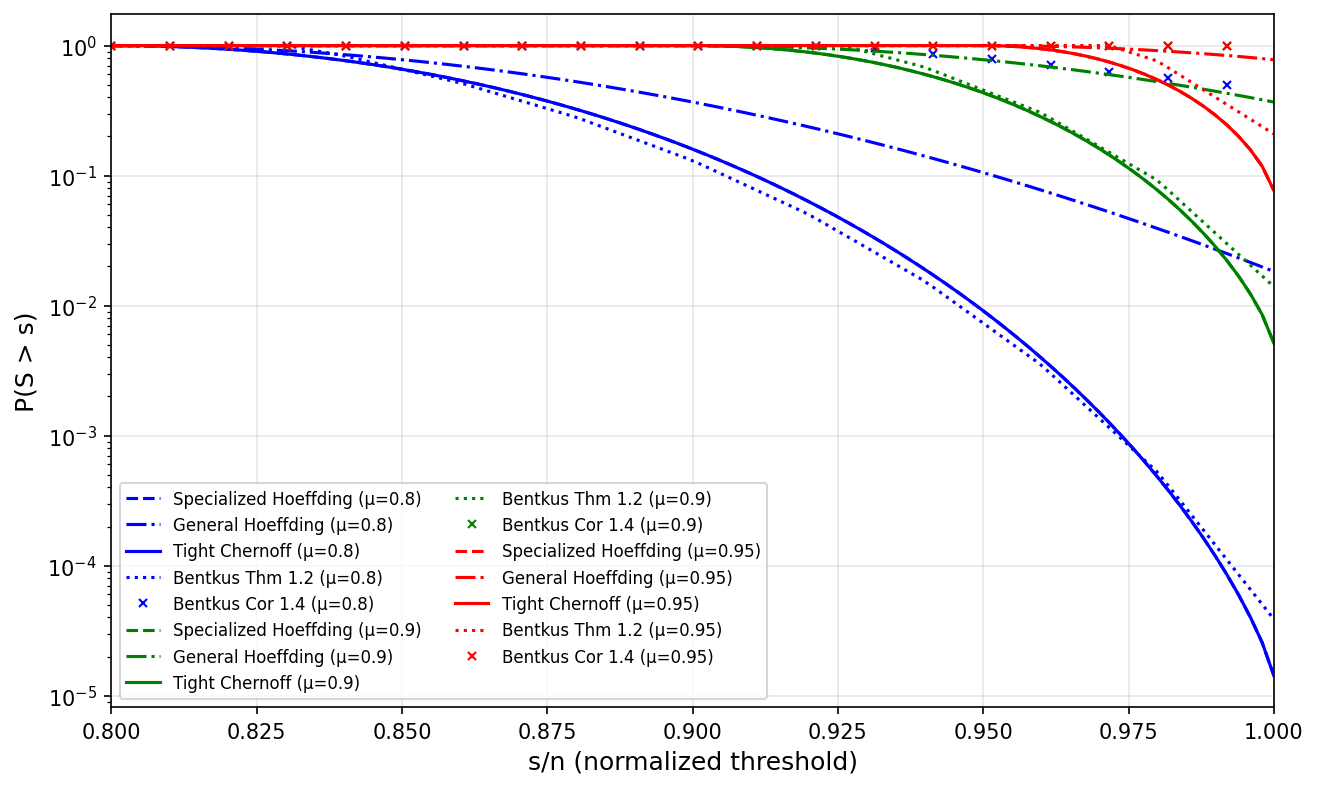
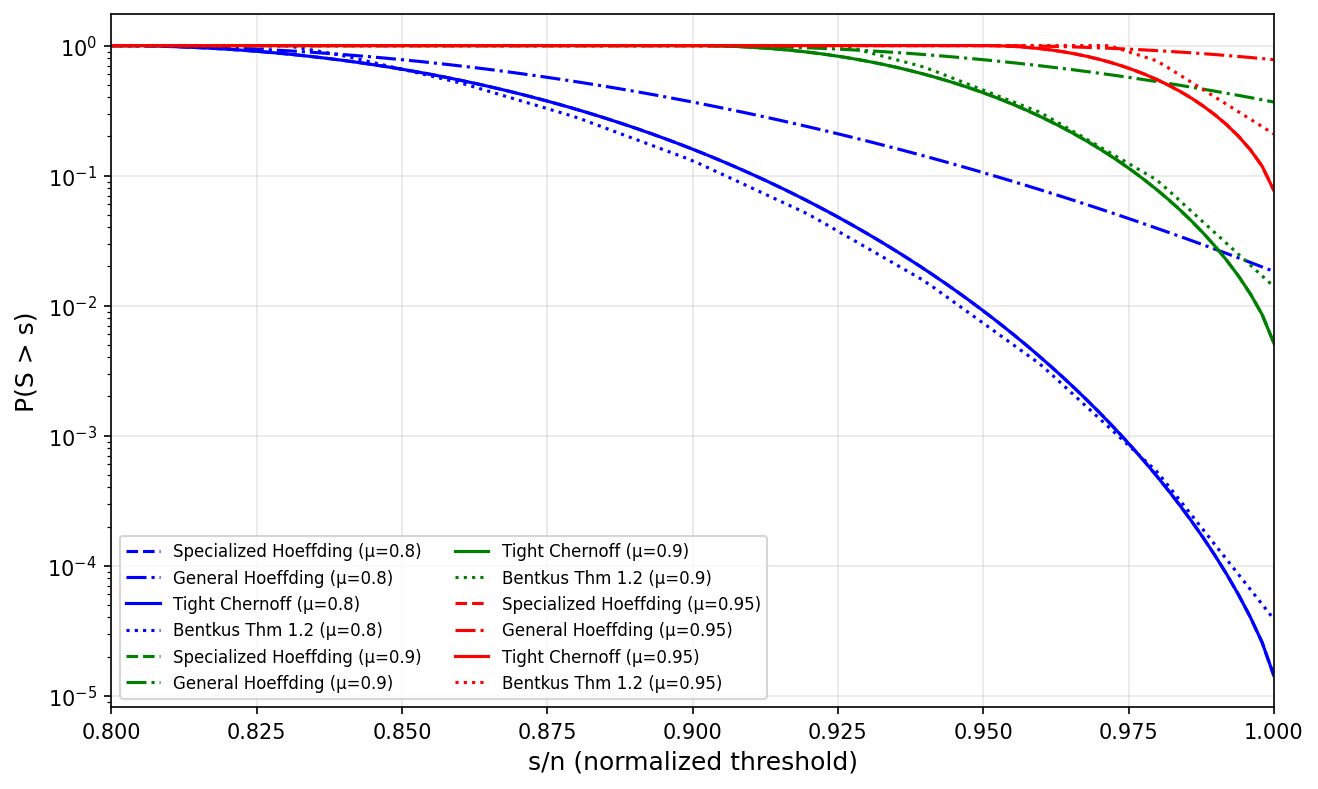
Fix typos, citation error, remove RMS terminology, and update homogeneous plots
- Fix typos: "generalied" → "generalized", "is lies" → "lies", "compatible a case" → "compatible with a case", "$a_i<\leq0$" → "$a_i\leq0$"
- Fix citation error: from2024refinement → from2023improved
- Remove "RMS" terminology from manuscript and clarify by referencing BMD/CW settings
- Remove Bentkus Cor 1.4 from homogeneous case comparisons in both tex and code
- Regenerate homogeneous comparison plots (50, 100, 200) without Bentkus Cor 1.4
- Add label to Related Work section for cross-references

Changed region(s): [[0.0933, 0.6084, 0.591, 0.8821]]

diff --git a/manuscript/main.tex b/manuscript/main.tex
@@ -69,21 +69,22 @@ Hoeffding's seminal work also included a less well-known bound, which is applica
 \end{equation}
 We refer to Equation~\ref{eq:hoeffspecial} as the ``specialized Hoeffding inequality.'' Equation~\ref{eq:hoeffspecial} is tighter than Equation~\ref{eq:hoeffgeneral} in situations where both are applicable.
 
-In this article, we propose a computable bound for the sum of independent random variables for a setting in which the expected value of the sum is known and each random variable is lies in a known fixed interval of arbitrary size.  The size of these intervals is permitted to differ among variables, which makes the direct application of the specialized Hoeffding inequality impossible.  Bounds for this setting are useful for hypothesis testing regarding the sum's expected value based on an observed realization (or, equivalently, for computing confidence intervals on the sum's expected value).  Our key insight is that a worst-case Chernoff--Cram\'er bound related to our setting can be computed exactly by solving a two-dimensional convex optimization problem, yielding a tighter bound than the general Hoeffding inequality.  The result reduces to Equation~\ref{eq:hoeffspecial} in the special case that $b_i=1$ for each $i \in \{1,\ldots,n\}$.  We use simulations to demonstrate that the new bound can be much tighter than the general Hoeffding inequality in situations where both are applicable and the specialized Hoeffding inequality is not.
+In this article, we propose a computable bound for the sum of independent random variables for a setting in which the expected value of the sum is known and each random variable lies in a known fixed interval of arbitrary size.  The size of these intervals is permitted to differ among variables, which makes the direct application of the specialized Hoeffding inequality impossible.  Bounds for this setting are useful for hypothesis testing regarding the sum's expected value based on an observed realization (or, equivalently, for computing confidence intervals on the sum's expected value).  Our key insight is that a worst-case Chernoff--Cram\'er bound related to our setting can be computed exactly by solving a two-dimensional convex optimization problem, yielding a tighter bound than the general Hoeffding inequality.  The result reduces to Equation~\ref{eq:hoeffspecial} in the special case that $b_i=1$ for each $i \in \{1,\ldots,n\}$.  We use simulations to demonstrate that the new bound can be much tighter than the general Hoeffding inequality in situations where both are applicable and the specialized Hoeffding inequality is not.
 
-Note that the generalied Hoeffding bound, the specialized Hoeffding bound, and the bounds we develop here for our setting can all be applied to translated intervals of the form $[a_i, b_i]$ without difficulty: we can always translate each variable by defining $Y_i = X_i - a_i$, which lies in $[0, b_i - a_i]$, and the sum $\sum_i Y_i = \sum_i X_i - \sum_i a_i$ differs from the original sum by a known constant.  The tail bound for $S = \sum_i X_i$ then follows directly from the bound for $\sum_i Y_i$.  This reduction is possible because we are interested in tail bounds of the form $\mathbb{P}(S \geq s)$; the translation preserves the structure of the problem.
+Note that the generalized Hoeffding bound, the specialized Hoeffding bound, and the bounds we develop here for our setting can all be applied to translated intervals of the form $[a_i, b_i]$ without difficulty: we can always translate each variable by defining $Y_i = X_i - a_i$, which lies in $[0, b_i - a_i]$, and the sum $\sum_i Y_i = \sum_i X_i - \sum_i a_i$ differs from the original sum by a known constant.  The tail bound for $S = \sum_i X_i$ then follows directly from the bound for $\sum_i Y_i$.  This reduction is possible because we are interested in tail bounds of the form $\mathbb{P}(S \geq s)$; the translation preserves the structure of the problem.
 
 \section{Related Work}
+\label{sec:related}
 
 We here discuss two related lines of work.
 
-One related line of work considers the case where it is known that $a_i \leq X_i - \mathbb{E}[X_i] \leq b_i$ for every $i$, with both $a_i$ and $b_i$ known per variable.  We refer to this as the ``bounded mean deviation'' (BMD) setting.  Note that although in our setting we may take $a_i=0$ without loss of generality, in the BMD setting the values $a_i$ cannot be simply shifted away.  Instead, the magnitude of $a_i<\leq0$ and $b_i>\geq0$ provide crucial insight into skew for the BMD setting.
+One related line of work considers the case where it is known that $a_i \leq X_i - \mathbb{E}[X_i] \leq b_i$ for every $i$, with both $a_i$ and $b_i$ known per variable.  We refer to this as the ``bounded mean deviation'' (BMD) setting.  Note that although in our setting we may take $a_i=0$ without loss of generality, in the BMD setting the values $a_i$ cannot be simply shifted away.  Instead, the magnitude of $a_i\leq0$ and $b_i\geq0$ provide crucial insight into skew for the BMD setting.
 
 Bounds from our setting (in which $a_i \leq X_i \leq b_i$) can be applied to the BMD setting to calculate the probability of a deviation from the mean: apply a method from our setting to $Y_i = X_i - \mathbb{E}[X_i]$ to bound $\mathbb{P}(\sum_{i}^n Y_i > t)$, then translate by $\mu$ to obtain a bound on $\mathbb{P}(\sum_{i}^n X_i > \mu+t)$.  The application of the generalized Hoeffding inequality to this BMD setting has been shown to be unnecessarily loose.  For example, \citet{hertz2020improved} notes that if $a_i\neq -b_i$ then the asymmetry can be used to produce a superior bound.  On the other hand, when $a_i=-b_i$, \citet[Cor 1.4]{bentkus2004hoeffding} provides a different bound that is often superior to the generalized Hoeffding inequality.
 
-A bound derived from a BMD assumption can be applied to our setting, but the bounds are necessarily quite loose.  To see why, consider a simple version of our setting in which $n=100$ and $X_i \in [-1/2,1/2]$ for each $i$.  This implies the BMD assumption that $1 \leq X_i - \mathbb{E}[X_i] \leq 1$.  However, this BMD assumption is much weaker than our original assumption, and it yields accordingly poor bounds.  In particular, the implied BMD assumption is compatible a case where $X_i$ carries the uniform distribution on $\{-1,1\}$, so that, for example, $\log \mathbb{P}(S>20) \approx -4.03985$.  Consequently, any upper bound based solely on this BMD assumption must be at least $-4.04$.  On the other hand Hoeffding's generalized inequality based on the original assumption yields $\mathbb{P}(S>\mu+20) \leq -8$.  Note that this discrepancy between $-4.04$ and $-8$ is only possible because the uniform distribution producing the $-4.04$ value actually \emph{violates} our original assumption.  In general, the large-deviations exponent for bounds derived from the BMD assumption alone will tend to underperform the large-deviations exponent of bounds derived from the original assumption by a factor of two.
+A bound derived from a BMD assumption can be applied to our setting, but the bounds are necessarily quite loose.  To see why, consider a simple version of our setting in which $n=100$ and $X_i \in [-1/2,1/2]$ for each $i$.  This implies the BMD assumption that $1 \leq X_i - \mathbb{E}[X_i] \leq 1$.  However, this BMD assumption is much weaker than our original assumption, and it yields accordingly poor bounds.  In particular, the implied BMD assumption is compatible with a case where $X_i$ carries the uniform distribution on $\{-1,1\}$, so that, for example, $\log \mathbb{P}(S>20) \approx -4.03985$.  Consequently, any upper bound based solely on this BMD assumption must be at least $-4.04$.  On the other hand Hoeffding's generalized inequality based on the original assumption yields $\mathbb{P}(S>\mu+20) \leq -8$.  Note that this discrepancy between $-4.04$ and $-8$ is only possible because the uniform distribution producing the $-4.04$ value actually \emph{violates} our original assumption.  In general, the large-deviations exponent for bounds derived from the BMD assumption alone will tend to underperform the large-deviations exponent of bounds derived from the original assumption by a factor of two.
 
-Another line of work considers the case where each $X_i \in [0,1]$.  We refer to this as the ``constant width'' (CW) setting.  The CW setting is a special case of our setting.  Bounds from the CW setting can be applied to our setting by applying a single shift and rescaling across all variables such that they lie in the unit interval.  However, this yields necessarily loose bounds, as it throws away information about the per-variable bounds.  The original specialized Hoeffding inequality targeted this setting, but bounds for this setting have been improved in the meanwhile, for example by \citet[Thm 1.2]{bentkus2004hoeffding}.  In simulations we compare the performance of our method with this method of Bentkus in the CW case (note that our method reduces to Hoeffding's specialized inequality in the CW case).  There has also been some work investigating how additional assumptions can enable tighter bounds in the CW case.  For example, \citet{from2013refinement} show a refinement if $\mu_i=\mathbb{E}[X_i]$ is known for each $i$, and \citet{from2024refinement} show a refinement if $\beta = \sum_i^n (\mu_i-\mu)^2/n$ is known.
+Another line of work considers the case where each $X_i \in [0,1]$.  We refer to this as the ``constant width'' (CW) setting.  The CW setting is a special case of our setting.  Bounds from the CW setting can be applied to our setting by applying a single shift and rescaling across all variables such that they lie in the unit interval.  However, this yields necessarily loose bounds, as it throws away information about the per-variable bounds.  The original specialized Hoeffding inequality targeted this setting, but bounds for this setting have been improved in the meanwhile, for example by \citet[Thm 1.2]{bentkus2004hoeffding}.  In simulations we compare the performance of our method with this method of Bentkus in the CW case (note that our method reduces to Hoeffding's specialized inequality in the CW case).  There has also been some work investigating how additional assumptions can enable tighter bounds in the CW case.  For example, \citet{from2013refinement} show a refinement if $\mu_i=\mathbb{E}[X_i]$ is known for each $i$, and \citet{from2023improved} show a refinement if $\beta = \sum_i^n (\mu_i-\mu)^2/n$ is known.
 
 \section{Notation and preliminaries}
 
@@ -164,27 +165,27 @@ This theorem suggests two methods for computing $\varphi^*$.  One method involve
 \begin{center}
 \includegraphics[width=5in]{comparisons/dirichlet_100.png}
   \caption{
-  Comparison of bounds for heterogeneous intervals.  We consider three choices of fixed expected value, $\mu \in \{0.8, 0.9, 0.95\}$.  We compare the general Hoeffding inequality \citep[Theorem 2]{hoeffding_probability_1963} (dashed lines), our new Tight Chernoff bounds (solid lines, calculated using Theorem~\ref{thm:lowd}), Bentkus Theorem 1.2 \citep{bentkus2004hoeffding} (dotted lines), and Bentkus Corollary 1.4 (×~markers).  Since Bentkus Theorem 1.2 requires homogeneous intervals, we apply it by rescaling all variables to lie within $[0, \max_i b_i]$.  Bentkus Corollary 1.4 uses RMS scale but requires centering information.  Our Tight Chernoff bound substantially outperforms both the general Hoeffding inequality and the Bentkus bounds in the heterogeneous case.
+  Comparison of bounds for heterogeneous intervals.  We consider three choices of fixed expected value, $\mu \in \{0.8, 0.9, 0.95\}$.  We compare the general Hoeffding inequality \citep[Theorem 2]{hoeffding_probability_1963} (dashed lines), our new Tight Chernoff bounds (solid lines, calculated using Theorem~\ref{thm:lowd}), Bentkus Theorem 1.2 \citep{bentkus2004hoeffding} (dotted lines), and Bentkus Corollary 1.4 (×~markers).  Since Bentkus Theorem 1.2 requires homogeneous intervals (cf.\ the CW setting from Section~\ref{sec:related}), we apply it by rescaling all variables to lie within $[0, \max_i b_i]$.  Bentkus Corollary 1.4 (cf.\ the BMD setting from Section~\ref{sec:related}) provides per-variable scaling but requires centering information; in the heterogeneous case, this assumption is necessarily loose because it does not fully exploit the per-variable upper bounds.  Our Tight Chernoff bound substantially outperforms both the general Hoeffding inequality and the Bentkus bounds in the heterogeneous case.
   }\label{fig:tailboundcomparisons}
 \end{center}
 \end{figure}
 
 We use simulations to assess the degree of improvement over the general Hoeffding inequality.  First, we sample a vector of interval lengths, $\boldsymbol{b} \in \mathbb{R}^{100}$, uniformly at random from the set of lengths such that $B=\sum_{i=1}^{100} b_i=1$.  We define $S$ to be the sum of 100 independent random variables, $(X_1,\ldots,X_{100})$, where each $X_i$ is constrained to the interval $[0,b_i]$ for $i\in \{1,\ldots,100\}$.  The value of $n$ affects the tightness of all bounds.  However, the overall scaling of the $b_i$ values does not matter: what is relevant is the relative sizes of the intervals, so we normalize the intervals so that their maximum possible sum is 1.
 
-For any fixed value of $\mu$ and any value $s \geq \mu$, our new results provide an upper bound on $\mathbb{P}(S>s)$, assuming $\mathbb{E}[S]=\mu$.  The general Hoeffding inequality can also be used to produce a bound on $\mathbb{P}(S>s)$, offering a natural point of comparison.  We also compare with the two Bentkus bounds \citep{bentkus2004hoeffding}: Theorem 1.2 requires all bounding intervals to be of the same size, while Corollary 1.4 uses RMS scale but requires centering information.  To apply Theorem 1.2 to heterogeneous intervals, we rescale all variables so that they lie within $[0, \max_i b_i]$.  For Corollary 1.4, we apply it using only the overall centering $S - \mu$.  These bounds on $\mathbb{P}(S>s)$ have practical implications, such as facilitating hypothesis testing for $\mathbb{E}[S]=\mu$ given an observed realization of $S$.
+For any fixed value of $\mu$ and any value $s \geq \mu$, our new results provide an upper bound on $\mathbb{P}(S>s)$, assuming $\mathbb{E}[S]=\mu$.  The general Hoeffding inequality can also be used to produce a bound on $\mathbb{P}(S>s)$, offering a natural point of comparison.  We also compare with the two Bentkus bounds \citep{bentkus2004hoeffding}: Theorem 1.2 is applicable in the CW setting and requires all bounding intervals to be of the same size, while Corollary 1.4 is applicable in the BMD setting and provides per-variable scaling but requires centering information.  To apply Theorem 1.2 to heterogeneous intervals, we rescale all variables so that they lie within $[0, \max_i b_i]$.  For Corollary 1.4, we apply it using only the overall centering $S - \mu$.  These bounds on $\mathbb{P}(S>s)$ have practical implications, such as facilitating hypothesis testing for $\mathbb{E}[S]=\mu$ given an observed realization of $S$.
 
-Figure~\ref{fig:tailboundcomparisons} compares our new Tight Chernoff bounds with the general Hoeffding inequality and both Bentkus bounds for $\mu \in \{0.8, 0.9, 0.95\}$, showing how they vary as a function of $s$. In many cases, our bounds are orders of magnitude tighter than those derived from the general Hoeffding inequality, demonstrating their advantage in tail estimation.  Neither Bentkus bound performs as well as our method in the heterogeneous case: Theorem 1.2 effectively treats all intervals as having the maximum width, while Corollary 1.4 has a larger multiplicative constant and does not fully exploit the heterogeneity.
+Figure~\ref{fig:tailboundcomparisons} compares our new Tight Chernoff bounds with the general Hoeffding inequality and both Bentkus bounds for $\mu \in \{0.8, 0.9, 0.95\}$, showing how they vary as a function of $s$. In many cases, our bounds are orders of magnitude tighter than those derived from the general Hoeffding inequality, demonstrating their advantage in tail estimation.  Neither Bentkus bound performs as well as our method in the heterogeneous case: Theorem 1.2 effectively treats all intervals as having the maximum width (a consequence of applying a CW bound), while Corollary 1.4 has a larger multiplicative constant and, as a BMD-type bound, does not fully exploit the heterogeneity.
 
 \begin{figure}
 \begin{center}
 \includegraphics[width=5in]{comparisons/homogen_100.png}
   \caption{
-  Comparison of bounds for homogeneous intervals.  When all variables share the same bounding interval $[0,1]$, the specialized Hoeffding inequality (Equation~\ref{eq:hoeffspecial}) applies.  We compare the general Hoeffding inequality, the specialized Hoeffding inequality, our new Tight Chernoff bounds, Bentkus Theorem 1.2, and Bentkus Corollary 1.4.  Our Tight Chernoff bounds match the specialized Hoeffding inequality, as expected from Theorem~\ref{thm:lowd}.  In this homogeneous setting, the specialized Hoeffding inequality, the Bentkus Theorem 1.2 bound, and our Tight Chernoff bounds all provide much tighter bounds than the general Hoeffding inequality.  Bentkus Corollary 1.4 is less tight here due to its larger multiplicative constant ($2e^3/9 \approx 4.46$ vs.\ $e \approx 2.72$ for Theorem 1.2).
+  Comparison of bounds for homogeneous intervals.  When all variables share the same bounding interval $[0,1]$, the specialized Hoeffding inequality (Equation~\ref{eq:hoeffspecial}) applies.  We compare the general Hoeffding inequality, the specialized Hoeffding inequality, our new Tight Chernoff bounds, and Bentkus Theorem 1.2.  Our Tight Chernoff bounds match the specialized Hoeffding inequality, as expected from Theorem~\ref{thm:lowd}.  In this homogeneous setting, the specialized Hoeffding inequality, the Bentkus Theorem 1.2 bound, and our Tight Chernoff bounds all provide much tighter bounds than the general Hoeffding inequality.
   }\label{fig:homogencomparisons}
 \end{center}
 \end{figure}
 
-To verify that our bounds perform well even when the Bentkus bounds are directly applicable, we also consider the case of homogeneous intervals where all $b_i = 1$.  Figure~\ref{fig:homogencomparisons} shows this comparison.  In this setting, our new Tight Chernoff bounds coincide with the specialized Hoeffding inequality (Equation~\ref{eq:hoeffspecial}), as guaranteed by Theorem~\ref{thm:lowd}.  Both our bounds and Bentkus Theorem 1.2 are much tighter than the general Hoeffding inequality, demonstrating that all refined methods provide substantial improvements when applicable.  Bentkus Corollary 1.4 is less tight in this homogeneous case because its larger prefactor ($2e^3/9 \approx 4.46$) outweighs any benefit from using RMS scale (which equals the max scale when intervals are equal).  The key advantage of our Tight Chernoff approach is that it extends naturally to heterogeneous intervals without requiring any rescaling or centering information beyond the overall mean.
+To verify that our bounds perform well even when the Bentkus bounds are directly applicable, we also consider the case of homogeneous intervals where all $b_i = 1$, which corresponds to the CW setting.  Figure~\ref{fig:homogencomparisons} shows this comparison.  In this setting, our new Tight Chernoff bounds coincide with the specialized Hoeffding inequality (Equation~\ref{eq:hoeffspecial}), as guaranteed by Theorem~\ref{thm:lowd}.  Both our bounds and Bentkus Theorem 1.2 are much tighter than the general Hoeffding inequality, demonstrating that all refined methods provide substantial improvements when applicable.  The key advantage of our Tight Chernoff approach is that it extends naturally to heterogeneous intervals without requiring any rescaling or centering information beyond the overall mean.
 
 
 \begin{appendix}

diff --git a/comparisons/homogen_compare.py b/comparisons/homogen_compare.py
@@ -8,7 +8,6 @@ In this case:
 - Hoeffding Theorem 2 (sum of squares) also applies
 - Tight Chernoff (sharp Chernoff) should match Hoeffding Theorem 1 as a sanity check
 - Bentkus Thm 1.2 bound compares to Binomial(n, p)
-- Bentkus Cor 1.4 bound uses RMS scale with symmetric Bernoulli comparison
 
 This provides a sanity check that Tight Chernoff agrees with the KL Hoeffding bound
 when all intervals are equal to [0, 1].
@@ -22,7 +21,7 @@ import os
 # Add the parent directory to path to import becitbam
 sys.path.insert(0, os.path.dirname(os.path.dirname(os.path.abspath(__file__))))
 
-from becitbam import hoeffding_thm1, hoeffding_thm2, sharp_chernoff, bentkus, bentkus_binomial
+from becitbam import hoeffding_thm1, hoeffding_thm2, sharp_chernoff, bentkus
 
 
 def compute_bounds(s_values, mu, n):
@@ -48,8 +47,6 @@ def compute_bounds(s_values, mu, n):
         Tight Chernoff (sharp Chernoff) bound on P(S > s)
     bentkus_thm12_bounds : numpy.ndarray
         Bentkus Thm 1.2 bound on P(S > s)
-    bentkus_cor14_bounds : numpy.ndarray
-        Bentkus Cor 1.4 bound on P(S > s) (using RMS scale)
     """
     # All intervals are [0, 1]
     a = np.ones(n)
@@ -58,7 +55,6 @@ def compute_bounds(s_values, mu, n):
     hoeffding2_bounds = []
     tight_chernoff_bounds = []
     bentkus_thm12_bounds = []
-    bentkus_cor14_bounds = []
     
     for s in s_values:
         # Hoeffding Theorem 1 (KL-based, returns log probability)
@@ -76,14 +72,9 @@ def compute_bounds(s_values, mu, n):
         # Bentkus Thm 1.2 bound (returns probability directly)
         bentkus_thm12_prob = bentkus(s, mu, a)
         bentkus_thm12_bounds.append(bentkus_thm12_prob)
-        
-        # Bentkus Cor 1.4 bound (returns probability directly)
-        bentkus_cor14_prob = bentkus_binomial(s, mu, a)
-        bentkus_cor14_bounds.append(bentkus_cor14_prob)
     
     return (np.array(hoeffding1_bounds), np.array(hoeffding2_bounds), 
-            np.array(tight_chernoff_bounds), np.array(bentkus_thm12_bounds),
-            np.array(bentkus_cor14_bounds))
+            np.array(tight_chernoff_bounds), np.array(bentkus_thm12_bounds))
 
 
 def main(n=100):
@@ -115,7 +106,7 @@ def main(n=100):
     
     for mu, frac, color in zip(mu_values, mu_fractions, colors):
         print(f"Computing bounds for mu={mu} (fraction={frac})...")
-        hoeffding1, hoeffding2, tight_chernoff, bentkus_thm12, bentkus_cor14 = compute_bounds(s_values, mu, n)
+        hoeffding1, hoeffding2, tight_chernoff, bentkus_thm12 = compute_bounds(s_values, mu, n)
         
         # Plot Hoeffding Theorem 1 (KL) bound - "Specialized Hoeffding" (dashed line)
         ax.plot(s_values / n, hoeffding1, '--', color=color, 
@@ -132,10 +123,6 @@ def main(n=100):
         # Plot Bentkus Thm 1.2 bound (dotted line)
         ax.plot(s_values / n, bentkus_thm12, ':', color=color,
                 label=f'Bentkus Thm 1.2 (μ={frac})', linewidth=1.5)
-        
-        # Plot Bentkus Cor 1.4 bound (markers)
-        ax.plot(s_values / n, bentkus_cor14, 'x', color=color,
-                label=f'Bentkus Cor 1.4 (μ={frac})', markersize=4, markevery=5)
         
         # Sanity check: Tight Chernoff should match Hoeffding KL
         max_diff = np.max(np.abs(hoeffding1 - tight_chernoff))
